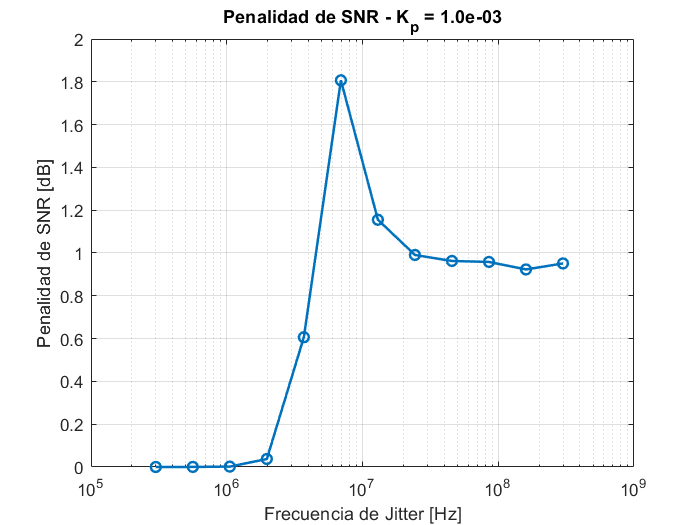
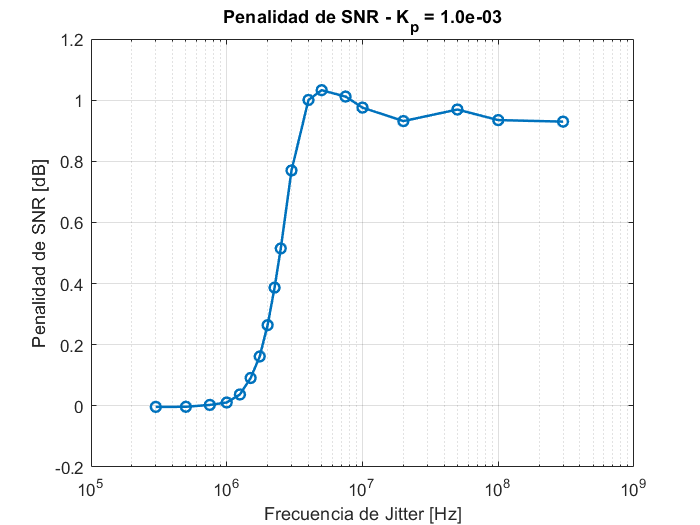
corregido final

diff --git a/simulador_optico_Nyquist_2026/main.m b/simulador_optico_Nyquist_2026/main.m
@@ -45,12 +45,12 @@ cfg_s.dd_step         = 1e-3;       % Paso de adaptación para seguimiento fino
 cfg_s.leak            = 1e-7;       % Factor de pérdida (leakage)
 
 % Parámetros del PLL y RFD
-cfg_s.Kp              = 1e-4;       % Ganancia proporcional del PLL
-cfg_s.Ki              = cfg_s.Kp/1000; % Ganancia integral del PLL
+cfg_s.Kp              = 1e-5;       % Ganancia proporcional del PLL
+cfg_s.Ki              = cfg_s.Kp/1500; % Ganancia integral del PLL
 cfg_s.rfd_gain        = 0;       % apagado
 
 
-cfg_s.phase_detector = 2;   % 1 = 4th power | 2 = DD
+cfg_s.phase_detector = 1;   % 1 = 4th power | 2 = DD
 
 % Timers (FSM RX)
 cfg_s.t1_rfd_frac    = 0.2;
@@ -148,8 +148,8 @@ end
 % ------------------------------------------------------------------------
 
 % Frecuencias de jitter a evaluar
-% f_jitter_vec = logspace(log10(300e3), log10(3e8), 12);   % 300 GHz a 300 MHz
-f_jitter_vec = [300e3 500e3 750e3 1e6 1.25e6 1.5e6 1.75e6 ...
+% f_jitter_vec = logspace(log10(300e3), log10(3e8), 15);   % 300 GHz a 300 MHz
+f_jitter_vec = [400e3 500e3 750e3 1e6 1.25e6 1.5e6 1.75e6 ...
                 2e6 2.25e6 2.5e6 3e6 4e6 5e6 7.5e6 10e6 ...
                 20e6 50e6 100e6 300e6];
 

diff --git a/simulador_optico_Nyquist_2026/comparar_Kp_4th.m b/simulador_optico_Nyquist_2026/comparar_Kp_4th.m
@@ -25,10 +25,10 @@ semilogx(kp4.f_jitter_vec, kp4.penalidad_SNR_dB, '-o', ...
 grid on;
 xlabel('Frecuencia de Jitter [Hz]');
 ylabel('Penalidad de SNR [dB]');
-title('Penalidad de SNR vs Frecuencia de Jitter - Detector DD');
+title('Penalidad de SNR vs Frecuencia de Jitter - Detector 4th Orden');
 legend('Location','best');
 
-xlim([5e5 5e8]);
-ylim([0 2.5]);
+xlim([2e5 5e8]);
+ylim([0 1.13]);
 
 hold off;
